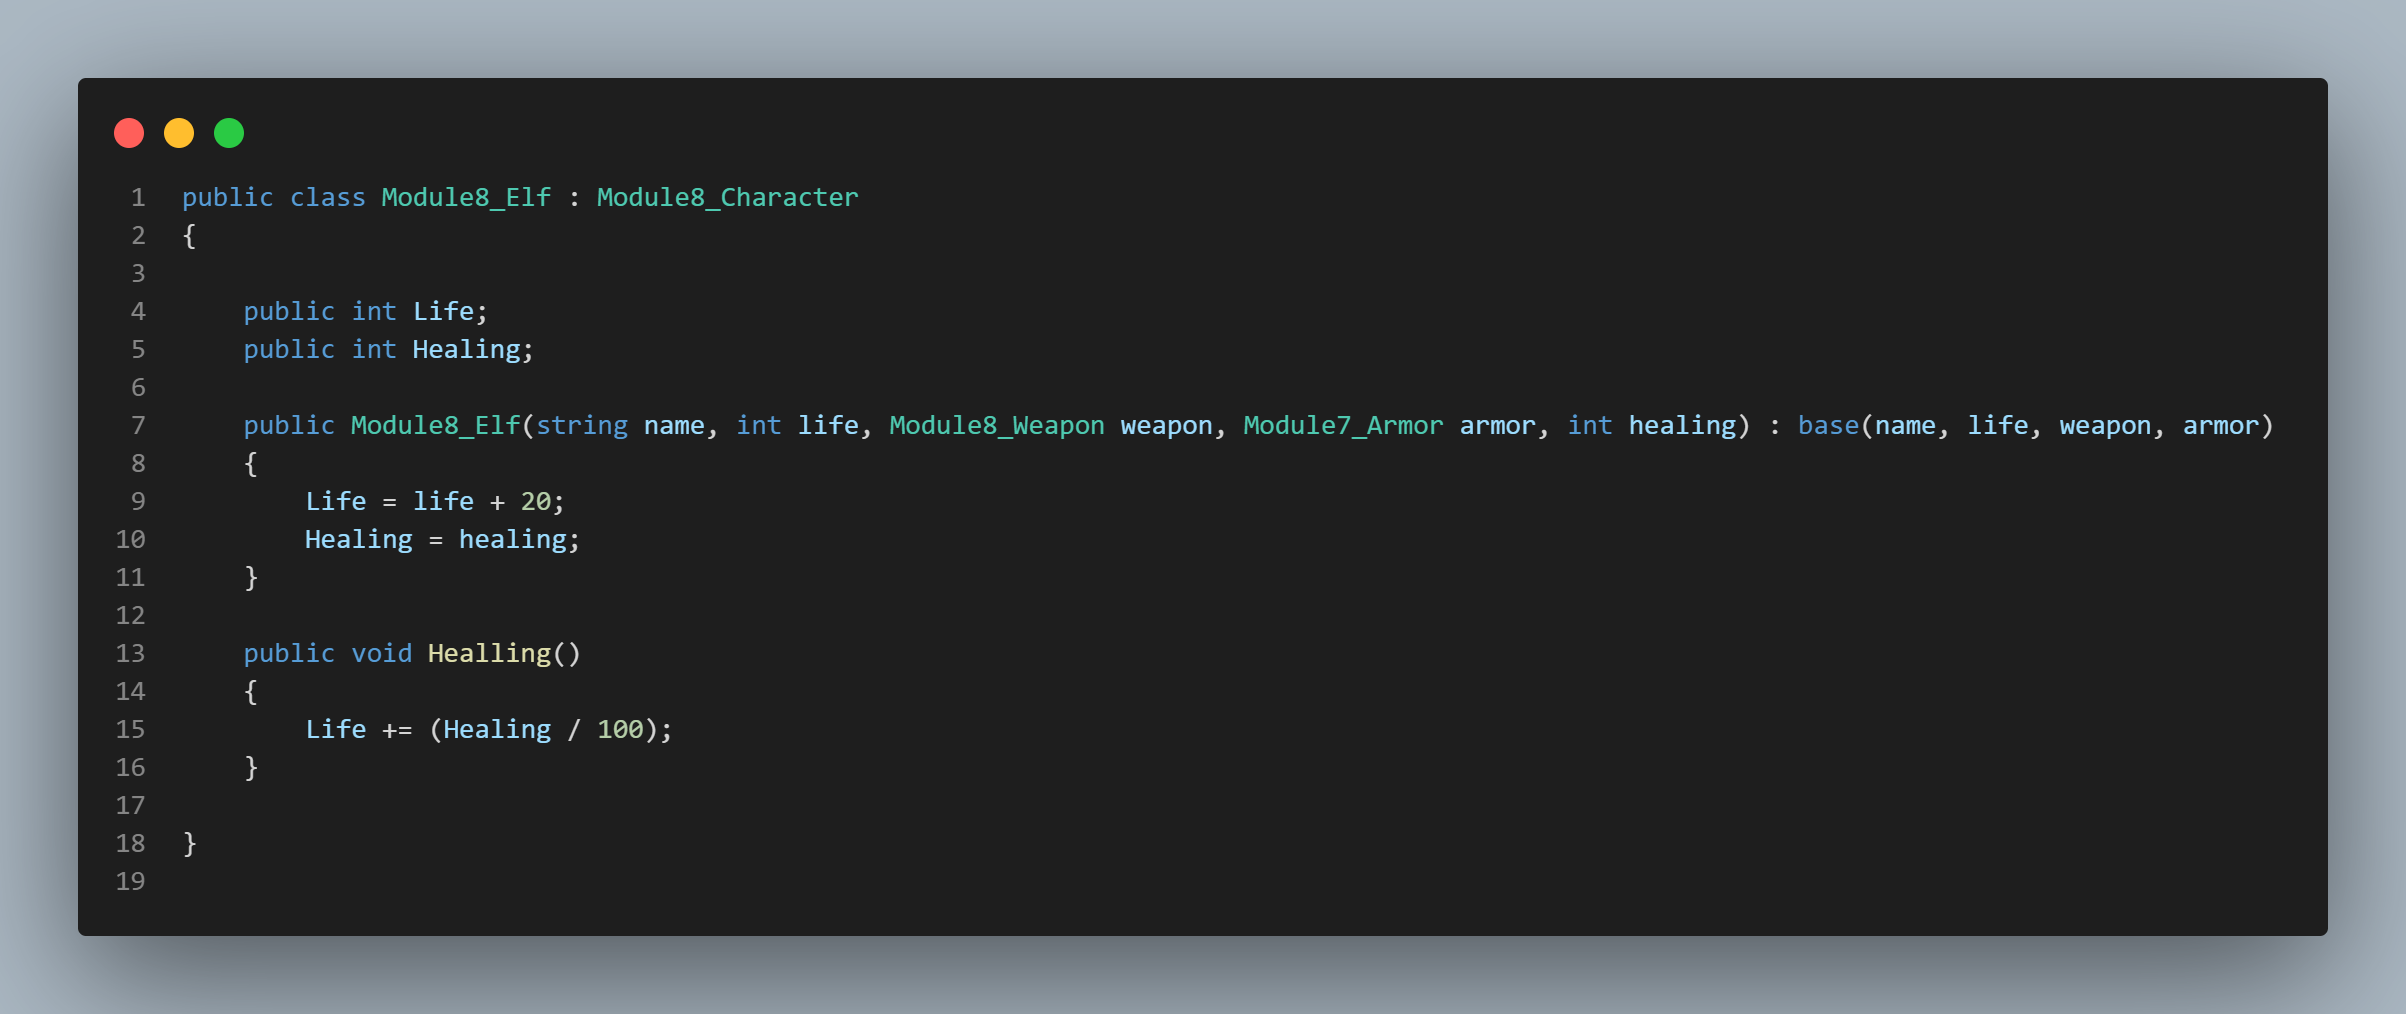
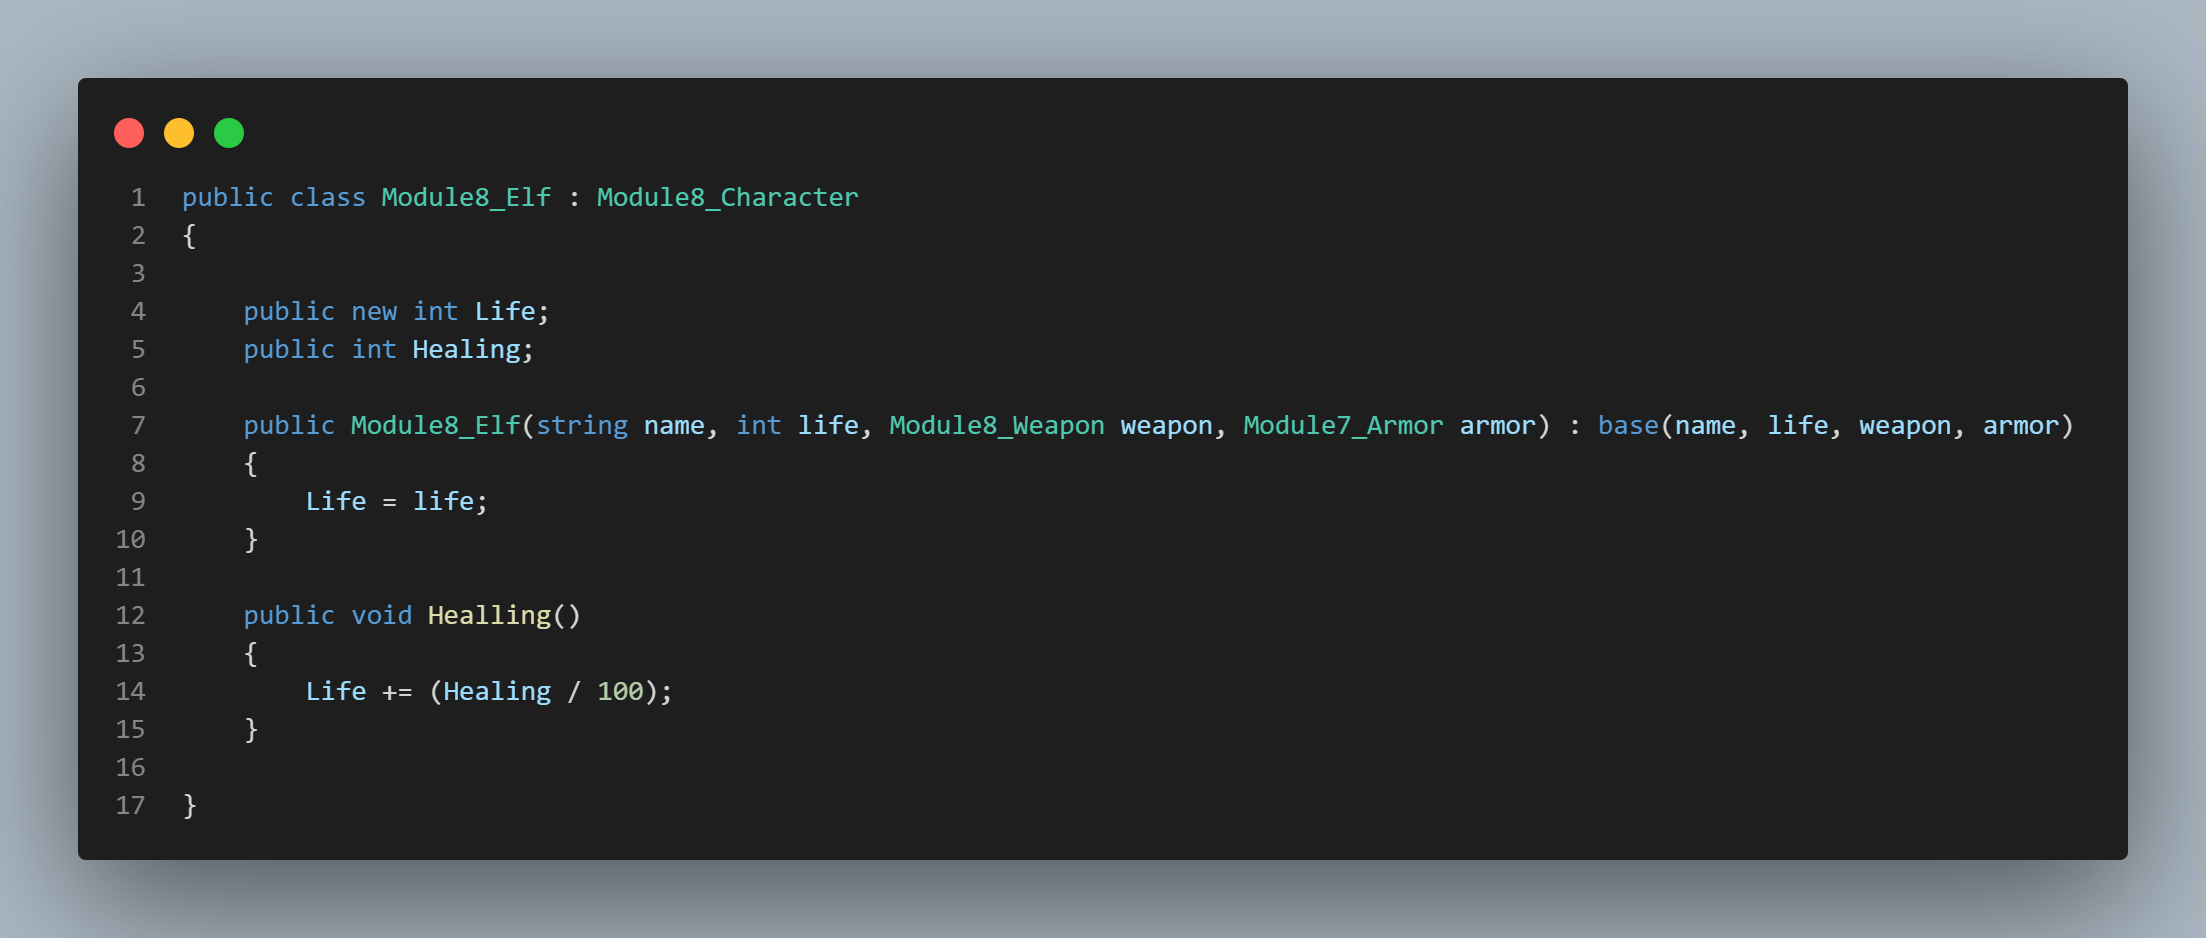
fix

diff --git a/Assets/Scripts/Module8_Elf.cs b/Assets/Scripts/Module8_Elf.cs
@@ -1,13 +1,12 @@
 public class Module8_Elf : Module8_Character
 {
 
-    public int Life;
+    public new int Life;
     public int Healing;
 
-    public Module8_Elf(string name, int life, Module8_Weapon weapon, Module7_Armor armor, int healing) : base(name, life, weapon, armor)
+    public Module8_Elf(string name, int life, Module8_Weapon weapon, Module7_Armor armor) : base(name, life, weapon, armor)
     {
-        Life = life + 20;
-        Healing = healing;
+        Life = life;
     }
 
     public void Healling()

diff --git a/Files/Module8/Module8_Elf.cs b/Files/Module8/Module8_Elf.cs
@@ -1,13 +1,12 @@
 public class Module8_Elf : Module8_Character
 {
 
-    public int Life;
+    public new int Life;
     public int Healing;
 
-    public Module8_Elf(string name, int life, Module8_Weapon weapon, Module7_Armor armor, int healing) : base(name, life, weapon, armor)
+    public Module8_Elf(string name, int life, Module8_Weapon weapon, Module7_Armor armor) : base(name, life, weapon, armor)
     {
-        Life = life + 20;
-        Healing = healing;
+        Life = life;
     }
 
     public void Healling()
